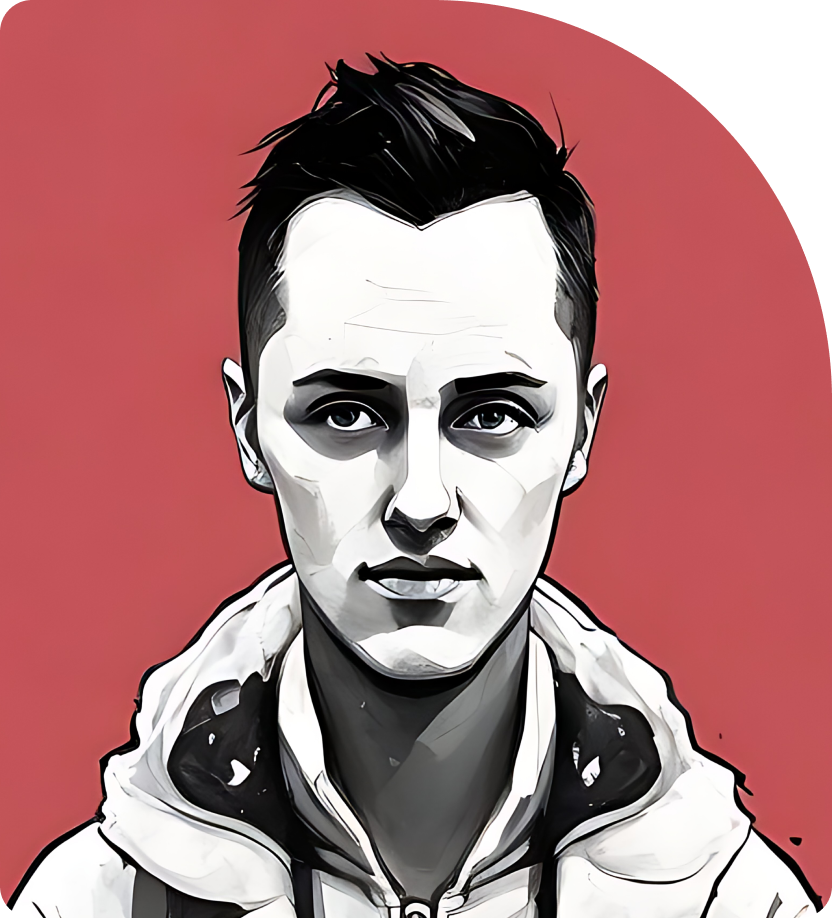
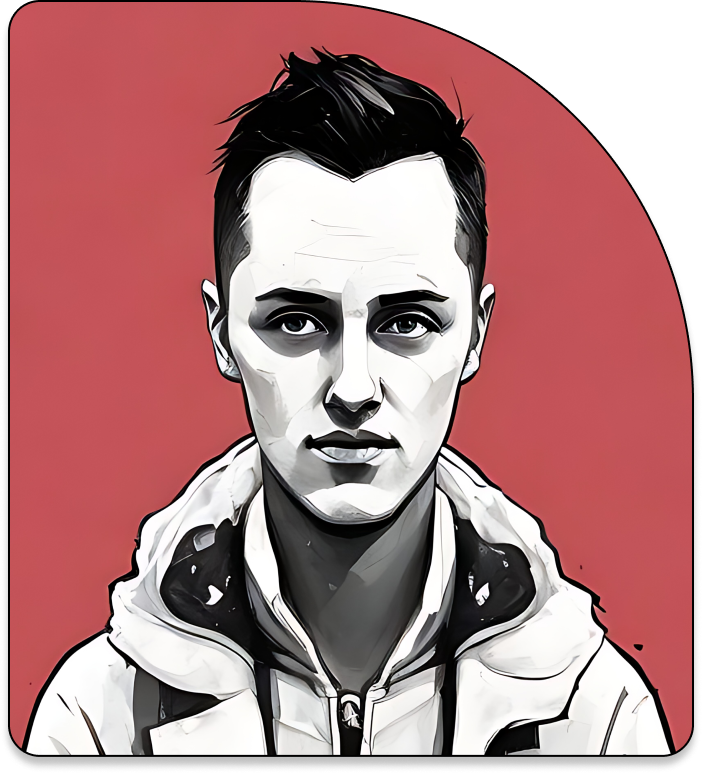
Styling my skills section

diff --git a/src/index.html b/src/index.html
@@ -1,165 +1,177 @@
 <!DOCTYPE html>
 <html lang="en">
-  <head>
-    <meta charset="UTF-8" />
-    <meta name="viewport" content="width=device-width, initial-scale=1.0" />
-    <title>Michał Baran - Portfolio</title>
-    <link href="./index.css" rel="stylesheet" />
-    <link rel="preconnect" href="https://fonts.googleapis.com" />
-    <link rel="preconnect" href="https://fonts.gstatic.com" crossorigin />
-    <link
-      href="https://fonts.googleapis.com/css2?family=DM+Sans:opsz,wght@9..40,400;9..40,500;9..40,700&display=swap"
-      rel="stylesheet"
-    />
-  </head>
-  <body class="bg-bg text-white">
-    <main>
-      <header class="py-6 px-16 mx-auto max-w-amb">
+
+<head>
+  <meta charset="UTF-8" />
+  <meta name="viewport" content="width=device-width, initial-scale=1.0" />
+  <title>Michał Baran - Portfolio</title>
+  <link href="./index.css" rel="stylesheet" />
+  <link rel="preconnect" href="https://fonts.googleapis.com" />
+  <link rel="preconnect" href="https://fonts.gstatic.com" crossorigin />
+  <link href="https://fonts.googleapis.com/css2?family=DM+Sans:opsz,wght@9..40,400;9..40,500;9..40,700&display=swap"
+    rel="stylesheet" />
+</head>
+
+<body class="bg-bg text-white font-dmSans text-justify">
+  <main class="px-4">
+    <header class="py-6 mx-auto max-w-amb">
+      <div class="flex gap-4">
         <img class="w-10 h-10" src="images/logo.svg" alt="" />
-        <p>Michał Baran</p>
-        <p>Backend Developer</p>
-        <nav>
-          <ul>
-            <li><a href="#about">About</a></li>
-            <li><a href="#skills">Skills</a></li>
-            <li><a href="#projects">Projects</a></li>
-            <li><a download href="#">Resume</a></li>
-            <li><a href="#contact">Contact</a></li>
-          </ul>
-        </nav>
-      </header>
-
-      <section class="py-32 px-16 mx-auto max-w-amb" id="about">
-        <h1>My name is Michał and I'm an aspiring Backend developer and ultra cyclist adventure seeker.</h1>
-        <p>
-          You might be interested in checking the list of my skills. Don't forget to have a glimpse at my projects. I'm
-          looking for a new challenges so if you have one - contact me 😊
-        </p>
-        <a href="#contact">Get in touch</a>
-        <a href="#skills">Get to know me</a>
-        <img class="w-1/2 h-1/2" src="images/avatar.png" alt="Michał Baran.">
-      </section>
-      <section id="skills">
-        <h2>MY SKILLS</h2>
-        <p>
-          I've picked up some cool skills along the way, and I'm excited to share them with you. Check out what I can do
-          below!
-        </p>
-        <article>
-          <img class="w-44 h-44" src="images/triangle.svg" alt="" />
-          <h3>Working knowledge</h3>
-          <ul>
-            <li>- Semantic HTML5</li>
-            <li>— Flexbox</li>
-            <li>— Markdown</li>
-            <li>— JS: Local storage</li>
-            <li>— Figma</li>
-            <li>— CSS grid</li>
-            <li>— Forms</li>
-            <li>- JS: DOM manipulations</li>
-            <li>— SASS</li>
-          </ul>
-        </article>
-        <article>
-          <img class="w-44 h-44" src="images/circle.svg" alt="" />
-          <h3>Know something about</h3>
-          <ul>
-            <li>— JavaScript ES6 + features</li>
-            <li>— CSS animations</li>
-            <li>— Working with API</li>
-            <li>— NPM Scripts</li>
-            <li>— PWA</li>
-            <li>— Git</li>
-            <li>— Accessibility</li>
-          </ul>
-        </article>
-        <article>
-          <img class="w-44 h-44" src="images/hexagon.svg" alt="" />
-          <h3>Want to learn</h3>
-          <ul>
-            <li>— React</li>
-            <li>— Node</li>
-            <li>— Electron</li>
-            <li>— SSR</li>
-            <li>— TypeScript</li>
-            <li>— Gatsby</li>
-            <li>— WebSockets</li>
-          </ul>
-        </article>
-      </section>
-      <section class="py-32 px-16 mx-auto max-w-amb" id="projects">
-        <h3>RECENT PROJECTS</h3>
-        <p>
-          Since diving into frontend development in 2023, I've brought a range of projects to life. Here's a snapshot of
-          my accomplishments so far.
-        </p>
-        <article>
-          <h3>simple-editor</h3>
-          <p><img class="w-3 h-3" src="images/star.svg" alt="" />27</p>
-          <p>
-            Phasellus dolor. In dui magna, posuere eget, vestibulum et, tempor auctor, justo fringilla mauris sit amet
-            nibh. Suspendisse pulvinar, augue ac venenatis condimentum, sem libero volutpat...
-          </p>
-          <ul>
-            <li>HTML</li>
-            <li>CSS</li>
-            <li>JAVASCRIPT</li>
-            <li></li>
-          </ul>
-          <a href="#">View demo</a>
-          <a href="#">Source code</a>
-        </article>
-      </section>
-      <section class="py-32 px-16 mx-auto max-w-amb" id="afterHours">
-        <h2>AFTER HOURS</h2>
-        <p>
-          Outside of my regular working hours, I delve into an array of activities and passions. Here's a glimpse into
-          how I spend my after-hours.
-        </p>
-        <article>
-          <h3>OCR Running</h3>
-          <img src="images/triangle.svg" alt=""/>
-          <p>
-            Outside of my regular working hours, I immerse myself in the pulsating rhythms and innovative sounds of
-            electronic music
-          </p>
-        </article>
-        <article>
-            <h3>Bicyle Ultra Races</h3>
-            <img src="images/triangle.svg" alt=""/>
-            <p>
-              Outside of my regular working hours, I immerse myself in the pulsating rhythms and innovative sounds of
-              electronic music
-            </p>
-          </article>
-          <article>
-            <h3>Bikepacking</h3>
-            <img src="images/triangle.svg" alt=""/>
-            <p>
-              Outside of my regular working hours, I immerse myself in the pulsating rhythms and innovative sounds of
-              electronic music
-            </p>
-          </article>
-          <article>
-            <h3>Squadrats</h3>
-            <img src="images/triangle.svg" alt=""/>
-            <p>
-              Outside of my regular working hours, I immerse myself in the pulsating rhythms and innovative sounds of
-              electronic music
-            </p>
-          </article>
-      </section>
-      <section class="py-32 px-16 mx-auto max-w-amb" id="contact">
-        <h2>Let's work together</h2>
-        <p>I'm open for new opportunities.<br>If you have one for me we should talk!</p>
-        <a href="mailto:michal.baran.dev@gmail.com">contact@michalbaran.pl</a>
-        <p>or find me on</p>
+        <div>
+          <p class="text-xl font-bold text-accent">Michał Baran</p>
+          <p class="text-xs font-bold text-gray-500 uppercase tracking-wider">Backend Developer</p>
+        </div>
+      </div>
+      <nav class="hidden">
         <ul>
-            <li><a href=""><img class="w-6 h-6" src="images/github.svg" alt=""></a></li>
+          <li><a href="#about">About</a></li>
+          <li><a href="#skills">Skills</a></li>
+          <li><a href="#projects">Projects</a></li>
+          <li><a download href="#">Resume</a></li>
+          <li><a href="#contact">Contact</a></li>
         </ul>
-      </section>
-    </main>
+      </nav>
+    </header>
 
-    <script src="main.js" typ="module"></script>
-  </body>
+    <section class="mx-auto max-w-amb my-5" id="about">
+      <img class="w-full mb-5" src="images/avatar.png" alt="Michał Baran">
+      <h1 class="text-2xl font-bold px-2 mb-4">My name is Michał and I'm an aspiring <span class="text-accent">Backend developer</span> and ultra cyclist adventure
+        seeker.</h1>
+      <p class="text-gray-400 text-base px-2 mb-8 font-medium">
+        You might be interested in checking the list of my <a href="#skills" class="text-white">skills</a>. Don't forget to have a glimpse at my <a href="#projects" class="text-white">projects</a>. I'm
+        looking for a new challenges so if you have one - <a href="#contact" class="text-white">contact me</a> 😊
+      </p>
+      <a class="w-48 h-14 text-bg font-bold bg-accent rounded-[0.625rem] flex gap-3 text-xl items-center mb-4" href="#contact"><img class="ml-4 w-6 h-6" src="images/text.svg" alt="">Get in touch</a>
+      <a class="w-56 h-14 text-accent bg-transparent font-bold border-solid border-2 border-[#1F2937] rounded-[0.625rem] flex gap-3 text-xl items-center mb-4" href="#skills"><img class="ml-4 w-6 h-6" src="images/image.svg" alt="">Get to know me</a>
+    </section>
+
+    <section class="mx-auto max-w-amb my-[3.75rem]" id="skills">
+      <h2 class="text-gray-400 text-xl mb-4 font-bold">MY SKILLS</h2>
+      <p class="text-2xl mb-10 font-medium">
+        I've picked up some cool skills along the way, and I'm excited to share them with you. Check out what I can do
+        below!
+      </p>
+      <div class="flex flex-col gap-4">
+      <article class="p-5 bg-slate-900 rounded-[0.625rem] ">
+        <img class="w-44 h-44 mb-10" src="images/triangle.svg" alt="" />
+        <h3 class="my-3 py-3 font-bold text-2xl border-t-accent border-t-2">Working knowledge</h3>
+        <ul>
+          <li>- Semantic HTML5</li>
+          <li>— Flexbox</li>
+          <li>— Markdown</li>
+          <li>— JS: Local storage</li>
+          <li>— Figma</li>
+          <li>— CSS grid</li>
+          <li>— Forms</li>
+          <li>- JS: DOM manipulations</li>
+          <li>— SASS</li>
+        </ul>
+      </article>
+      <article class="p-5 bg-slate-900 rounded-[0.625rem]">
+        <img class="w-44 h-44 mb-10" src="images/circle.svg" alt="" />
+        <h3 class="my-3 py-3 font-bold text-2xl border-t-accent border-t-2">Know something about</h3>
+        <ul>
+          <li>— JavaScript ES6 + features</li>
+          <li>— CSS animations</li>
+          <li>— Working with API</li>
+          <li>— NPM Scripts</li>
+          <li>— PWA</li>
+          <li>— Git</li>
+          <li>— Accessibility</li>
+        </ul>
+      </article>
+      <article class="p-5 bg-slate-900 rounded-[0.625rem] shadow-inner">
+        <img class="w-44 h-44 mb-10" src="images/hexagon.svg" alt="" />
+        <h3 class="my-3 py-3 font-bold text-2xl border-t-accent border-t-2">Want to learn</h3>
+        <ul>
+          <li>— React</li>
+          <li>— Node</li>
+          <li>— Electron</li>
+          <li>— SSR</li>
+          <li>— TypeScript</li>
+          <li>— Gatsby</li>
+          <li>— WebSockets</li>
+        </ul>
+      </article>
+    </div>
+    </section>
+
+    <section class="mx-auto max-w-amb my-[3.75rem]" id="projects">
+      <h3>RECENT PROJECTS</h3>
+      <p>
+        Since diving into frontend development in 2023, I've brought a range of projects to life. Here's a snapshot of
+        my accomplishments so far.
+      </p>
+      <article>
+        <h3>simple-editor</h3>
+        <p><img class="w-3 h-3" src="images/star.svg" alt="" />27</p>
+        <p>
+          Phasellus dolor. In dui magna, posuere eget, vestibulum et, tempor auctor, justo fringilla mauris sit amet
+          nibh. Suspendisse pulvinar, augue ac venenatis condimentum, sem libero volutpat...
+        </p>
+        <ul>
+          <li>HTML</li>
+          <li>CSS</li>
+          <li>JAVASCRIPT</li>
+          <li></li>
+        </ul>
+        <a href="#">View demo</a>
+        <a href="#">Source code</a>
+      </article>
+    </section>
+
+    <section class="py-32 mx-auto max-w-amb" id="afterHours">
+      <h2>AFTER HOURS</h2>
+      <p>
+        Outside of my regular working hours, I delve into an array of activities and passions. Here's a glimpse into
+        how I spend my after-hours.
+      </p>
+      <article>
+        <h3>OCR Running</h3>
+        <img src="images/triangle.svg" alt="" />
+        <p>
+          Outside of my regular working hours, I immerse myself in the pulsating rhythms and innovative sounds of
+          electronic music
+        </p>
+      </article>
+      <article>
+        <h3>Bicyle Ultra Races</h3>
+        <img src="images/triangle.svg" alt="" />
+        <p>
+          Outside of my regular working hours, I immerse myself in the pulsating rhythms and innovative sounds of
+          electronic music
+        </p>
+      </article>
+      <article>
+        <h3>Bikepacking</h3>
+        <img src="images/triangle.svg" alt="" />
+        <p>
+          Outside of my regular working hours, I immerse myself in the pulsating rhythms and innovative sounds of
+          electronic music
+        </p>
+      </article>
+      <article>
+        <h3>Squadrats</h3>
+        <img src="images/triangle.svg" alt="" />
+        <p>
+          Outside of my regular working hours, I immerse myself in the pulsating rhythms and innovative sounds of
+          electronic music
+        </p>
+      </article>
+    </section>
+
+    <section class="py-32 mx-auto max-w-amb" id="contact">
+      <h2>Let's work together</h2>
+      <p>I'm open for new opportunities.<br>If you have one for me we should talk!</p>
+      <a href="mailto:michal.baran.dev@gmail.com">contact@michalbaran.pl</a>
+      <p>or find me on</p>
+      <ul>
+        <li><a href=""><img class="w-6 h-6" src="images/github.svg" alt=""></a></li>
+      </ul>
+    </section>
+  </main>
+
+  <script src="main.js" typ="module"></script>
+</body>
+
 </html>

diff --git a/tailwind.config.js b/tailwind.config.js
@@ -7,7 +7,7 @@ module.exports = {
     extend: {
       colors: {
         bg: '#020916',
-        accent: 'C55258',
+        accent: '#C55258',
       },
       fontFamily: {
         'dmSans': ['DM Sans', 'sans-serif']
